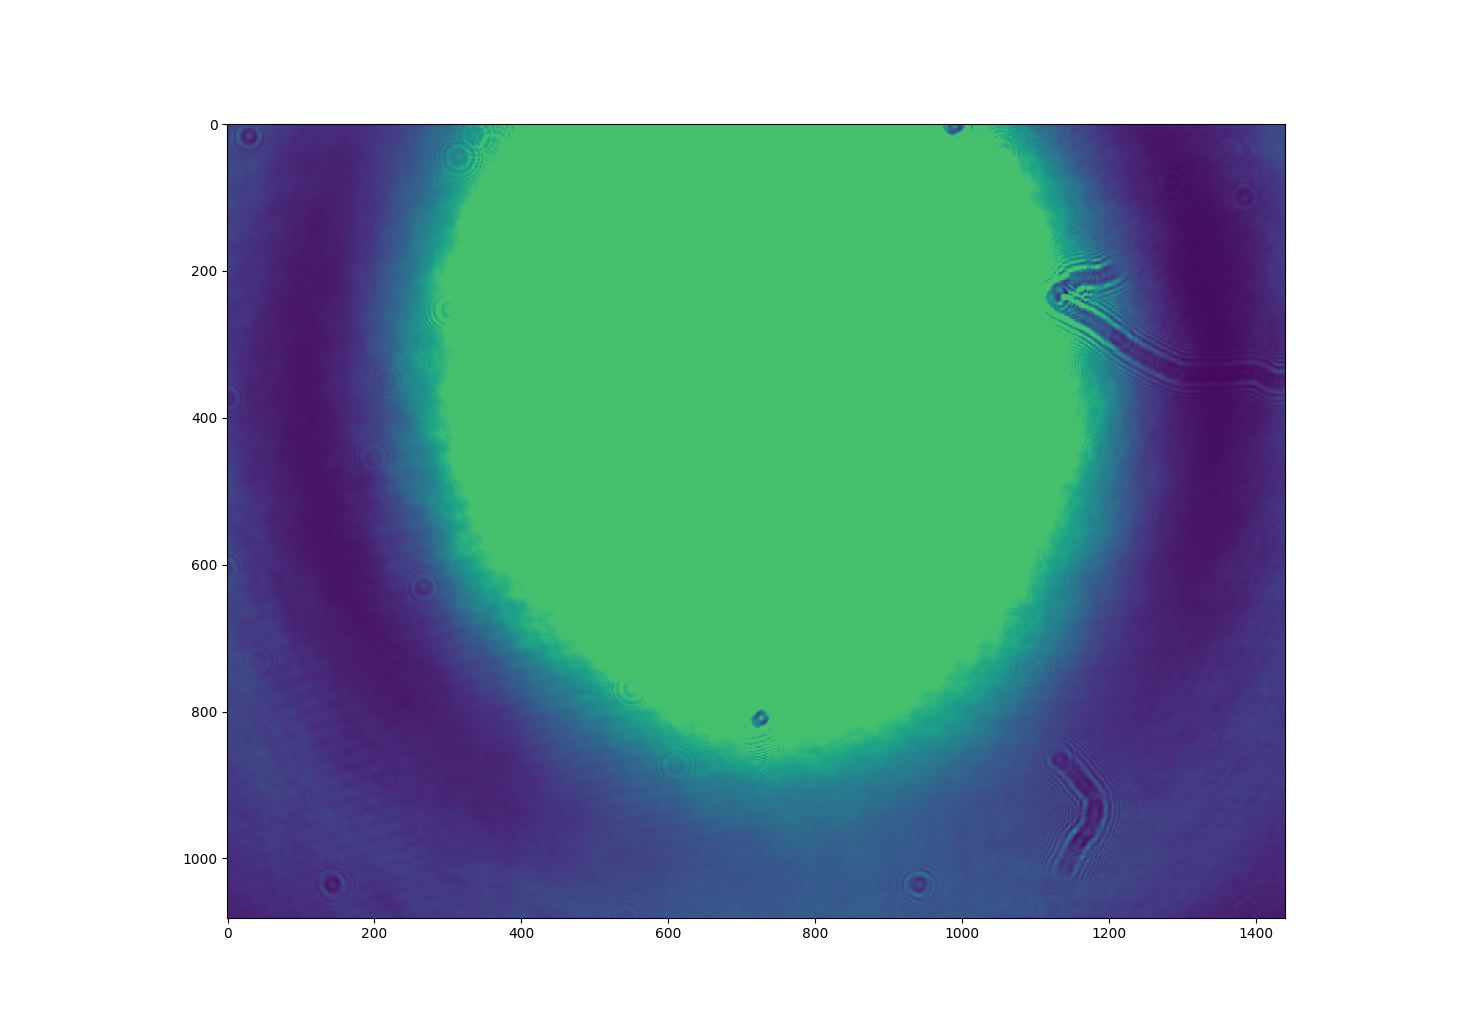
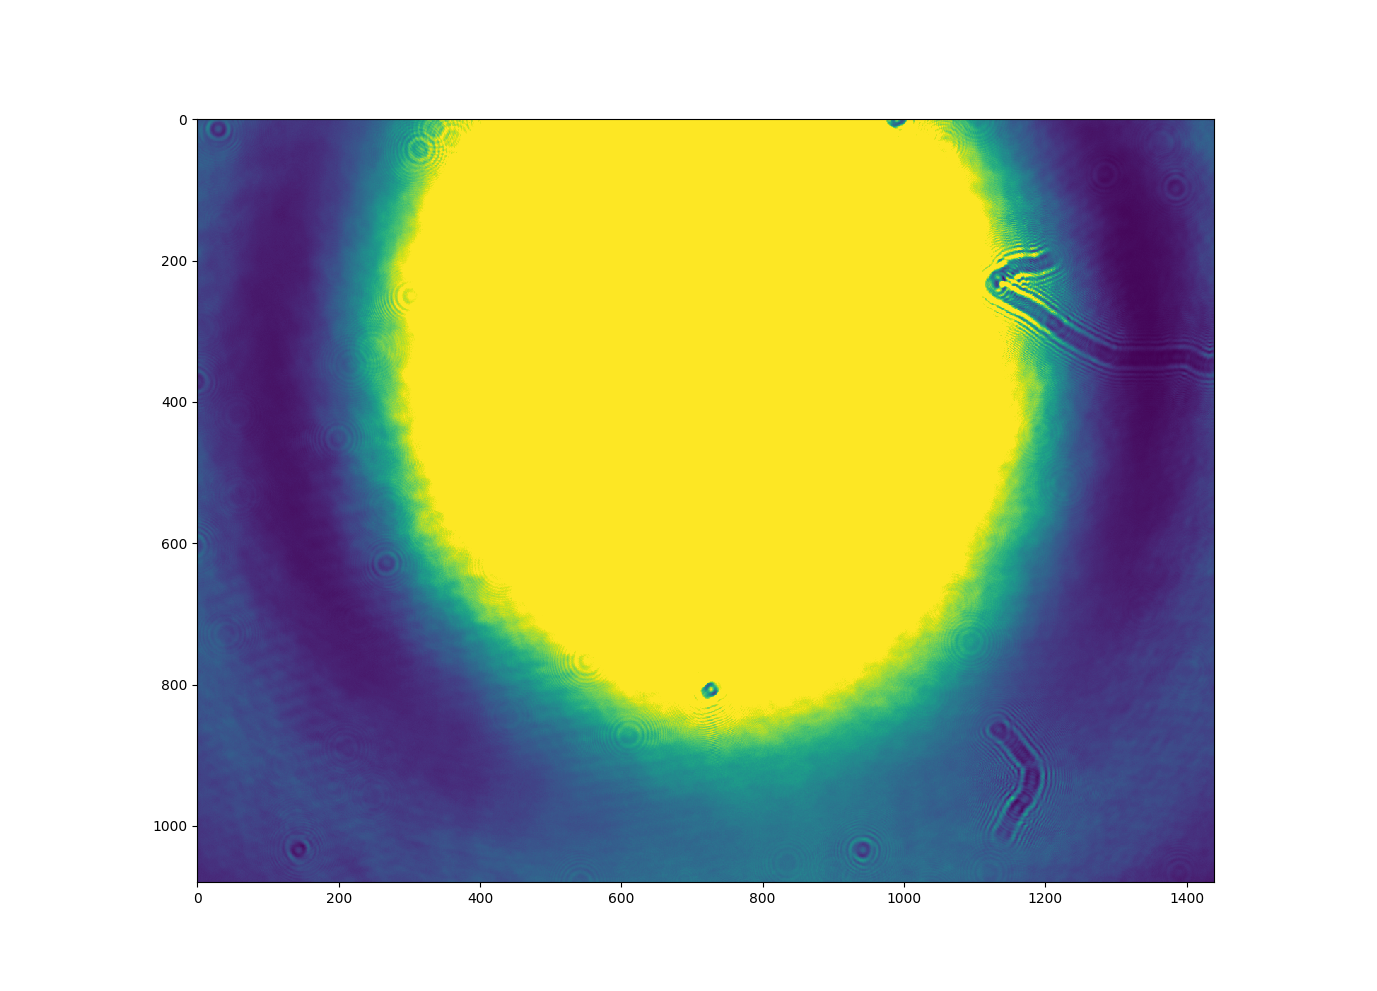
zur einen saettigung zur anderen einbruch der power maaaan

diff --git a/CMOS_artefakte/testplotter.py b/CMOS_artefakte/testplotter.py
@@ -1,0 +1,41 @@
+# -*- coding: utf-8 -*-
+"""
+Created on Tue Aug 10 19:01:12 2021
+
+@author: Jonas
+"""
+import pandas as pd
+import numpy as np
+import matplotlib.pyplot as plt
+import pandas as pd
+from scipy.stats import linregress
+from lmfit import Model, Parameters
+from lmfit.models import VoigtModel
+from lmfit.models import GaussianModel
+from scipy import stats
+from matplotlib.lines import Line2D
+from random import randint
+import matplotlib.pylab as pl
+from matplotlib.colors import ListedColormap
+import scipy.constants as consts
+import matplotlib as mpl
+file = r"D:\uni\PPraktikum\OCT\GhostLaser-main\powerCurve\430nm_STS.spec"
+
+data = pd.read_csv(file, sep=',')
+#fig, ax1 = plt.subplots(1, gridspec_kw={'wspace': 0}, facecolor='w',figsize=(11,8))
+    
+#data.plot(ax = ax1,x='wavelength', y='intensity', c ='blue', label='Spectrum')
+
+
+
+fileImg = r"D:\uni\PPraktikum\OCT\GhostLaser-main\powerCurve\440nm_CEMOS.data"
+data = pd.read_csv(fileImg, sep=',')
+#data = data.drop(0)
+data.drop(data.columns[0], axis=1, inplace=True)
+print(data)
+
+D = data.to_numpy()
+D = np.transpose(D)
+print(max(map(max, D)))
+plt.imshow(D, interpolation='none')
+plt.show()
